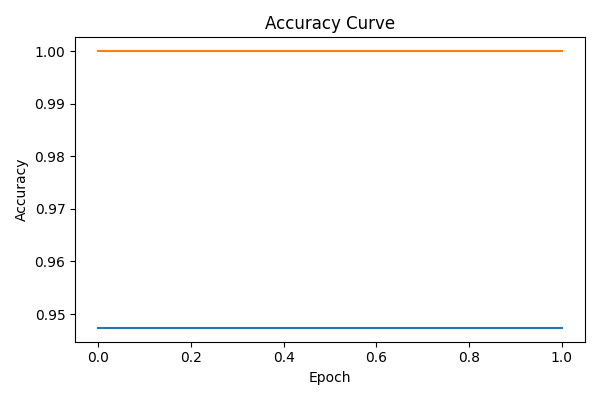
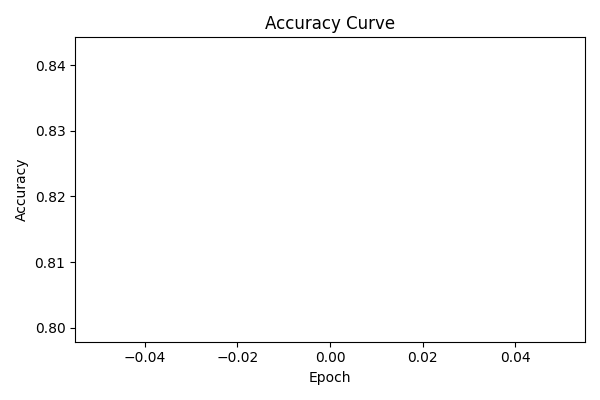
last mlop

diff --git a/src/retrain.py b/src/retrain.py
@@ -1,56 +1,45 @@
 # retrain.py
-import os
-import json
 import pandas as pd
-import numpy as np
-from tensorflow.keras.callbacks import EarlyStopping
-from tensorflow.keras.optimizers import Adam
-from tensorflow.keras.losses import BinaryCrossentropy
-from sklearn.metrics import accuracy_score, f1_score, precision_score, recall_score, confusion_matrix
-from tensorflow.keras.models import load_model as keras_load_model
-from sklearn.model_selection import train_test_split
-from src.preprocessing import load_data_from_db, preprocess_data
-
-# Optional: Only include matplotlib when needed
 import matplotlib
 matplotlib.use('Agg')
 import matplotlib.pyplot as plt
 import seaborn as sns
+from src.preprocessing import load_data_from_db, preprocess_data, apply_smote
+from tensorflow.keras.callbacks import EarlyStopping
+from tensorflow.keras.optimizers import Adam
+from tensorflow.keras.losses import BinaryCrossentropy
+from sklearn.metrics import accuracy_score, f1_score, precision_score, recall_score, confusion_matrix, classification_report
+from tensorflow.keras.models import load_model as keras_load_model
+import numpy as np
+import json
+import os
 
-# To store latest evaluation
+# Save metrics separately only when saving model
 latest_metrics_temp = {}
 
 def retrain_model(model_path='models/my_model.h5', epochs=1):
     global latest_metrics_temp
-
-    print("📊 Loading data from DB...")
     df = load_data_from_db()
+    X_processed, y, scaler = preprocess_data(df)
+    X_resampled, y_resampled = apply_smote(X_processed, y)
 
-    print("🧼 Preprocessing data...")
-    X_processed, y, _ = preprocess_data(df)
+    from sklearn.model_selection import train_test_split
+    X_train, X_test, y_train, y_test = train_test_split(X_resampled, y_resampled, test_size=0.2, random_state=42)
 
-    print("🔀 Splitting train/test sets...")
-    X_train, X_test, y_train, y_test = train_test_split(X_processed, y, test_size=0.2, random_state=42)
-
-    print("📦 Loading model...")
     model = keras_load_model(model_path)
-
-    print("⚙ Compiling model...")
     model.compile(optimizer=Adam(learning_rate=0.001), loss=BinaryCrossentropy(), metrics=["accuracy"])
 
-    print("🚀 Training model...")
-    early_stop = EarlyStopping(monitor='val_loss', patience=2, restore_best_weights=True)
+    early_stop = EarlyStopping(monitor='val_loss', patience=5, restore_best_weights=True)
+
     history = model.fit(
         X_train, y_train,
         validation_split=0.2,
         epochs=epochs,
-        batch_size=64,
+        batch_size=16,
         callbacks=[early_stop],
         verbose=1
     )
-    print("✅ Training complete.")
 
-    print("🧪 Evaluating...")
     y_pred_probs = model.predict(X_test).flatten()
     y_pred = (y_pred_probs > 0.5).astype(int)
 
@@ -70,7 +59,6 @@ def retrain_model(model_path='models/my_model.h5', epochs=1):
         }
     }
 
-    print("📊 Saving visualizations...")
     os.makedirs("static/img", exist_ok=True)
 
     # Confusion Matrix
@@ -85,8 +73,8 @@ def retrain_model(model_path='models/my_model.h5', epochs=1):
 
     # Loss Curve
     plt.figure(figsize=(6, 4))
-    plt.plot(metrics["history"]["loss"], label='Training Loss')
-    plt.plot(metrics["history"]["val_loss"], label='Validation Loss')
+    plt.plot(history.history.get("loss", []), label='Training Loss')
+    plt.plot(history.history.get("val_loss", []), label='Validation Loss')
     plt.title("Loss Curve")
     plt.xlabel("Epoch")
     plt.ylabel("Loss")
@@ -96,15 +84,15 @@ def retrain_model(model_path='models/my_model.h5', epochs=1):
 
     # Accuracy Curve
     plt.figure(figsize=(6, 4))
-    plt.plot(metrics["history"]["accuracy"], label='Training Accuracy')
-    plt.plot(metrics["history"]["val_accuracy"], label='Validation Accuracy')
+    plt.plot(history.history.get("accuracy", []), label='Training Accuracy')
+    plt.plot(history.history.get("val_accuracy", []), label='Validation Accuracy')
     plt.title("Accuracy Curve")
     plt.xlabel("Epoch")
     plt.ylabel("Accuracy")
     plt.tight_layout()
     plt.savefig("static/img/accuracy_curve.png")
     plt.close()
-
+    
     latest_metrics_temp = {
         "accuracy": metrics["accuracy"],
         "f1_score": metrics["f1_score"],

diff --git a/src/preprocessing.py b/src/preprocessing.py
@@ -1,19 +1,20 @@
+# preprocessing.py
 import pandas as pd
 import sqlite3
 from sklearn.preprocessing import StandardScaler
+from imblearn.over_sampling import SMOTE
 
-# Database config
 DATABASE = 'heart_data.db'
 TABLE_NAME = 'heart_records'
 
-# 📥 Load data directly from SQLite
+# Load data directly from the SQLite database
 def load_data_from_db():
     conn = sqlite3.connect(DATABASE)
     df = pd.read_sql_query(f"SELECT * FROM {TABLE_NAME}", conn)
     conn.close()
     return df
 
-# 🧼 Preprocess data: separate features & target, scale features
+# Preprocessing function based on your notebook setup
 def preprocess_data(df):
     # Split features and target
     X = df.drop(columns=["target"])
@@ -23,7 +24,13 @@ def preprocess_data(df):
     scaler = StandardScaler()
     X_scaled = scaler.fit_transform(X)
 
-    # Return as DataFrame (TensorFlow likes this format)
+    # Convert scaled array back to DataFrame for consistency
     X_scaled_df = pd.DataFrame(X_scaled, columns=X.columns)
 
-    return X_scaled_df, y, None  # Return None instead of scaler if not needed
+    return X_scaled_df, y, scaler
+
+# SMOTE function remains the same
+def apply_smote(X, y):
+    smote = SMOTE(random_state=42)
+    X_resampled, y_resampled = smote.fit_resample(X, y)
+    return X_resampled, y_resampled
